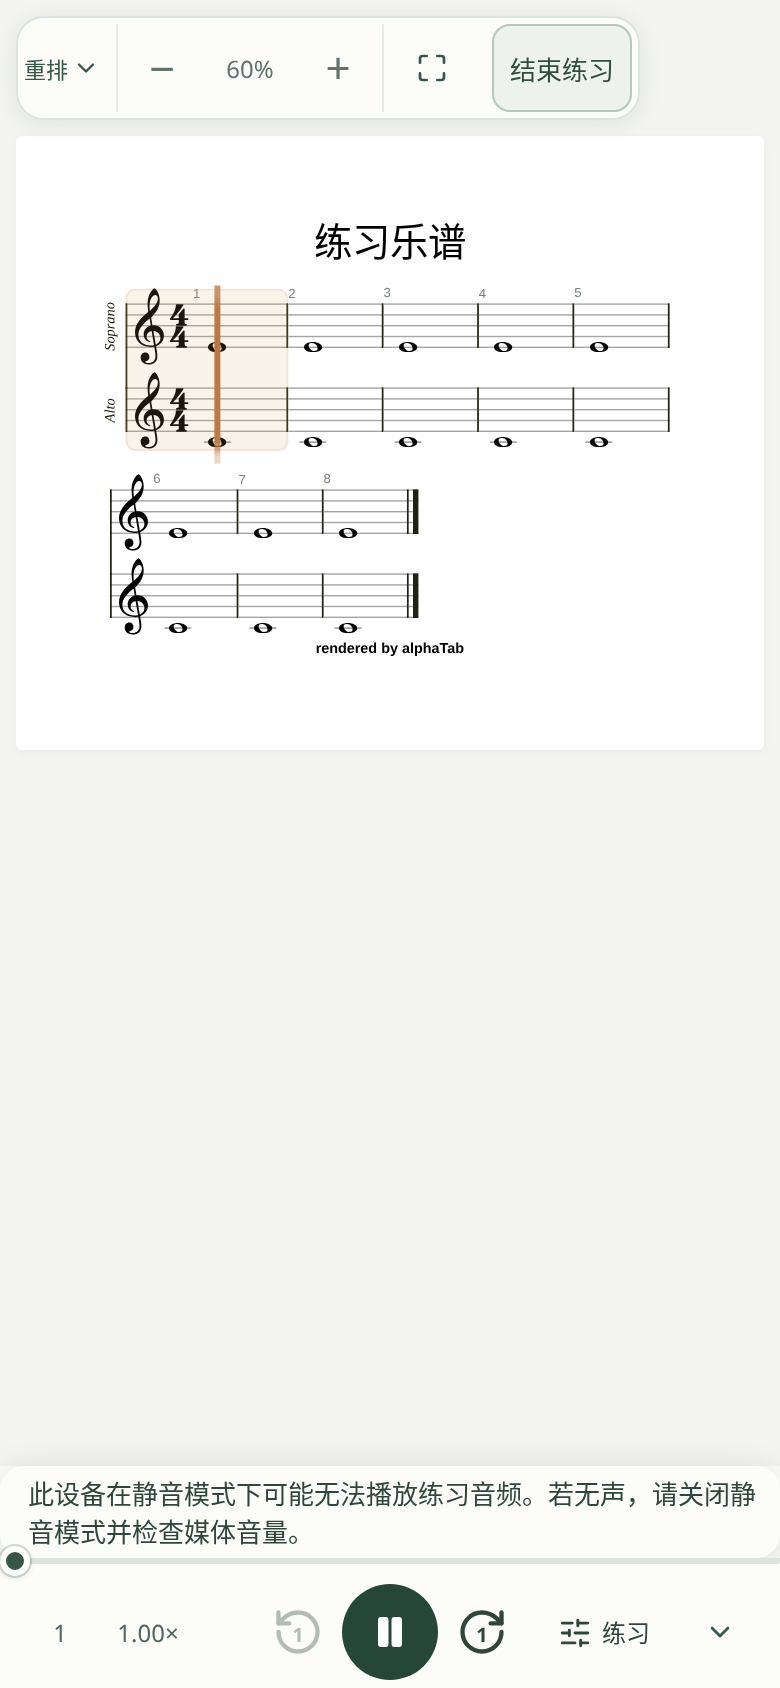
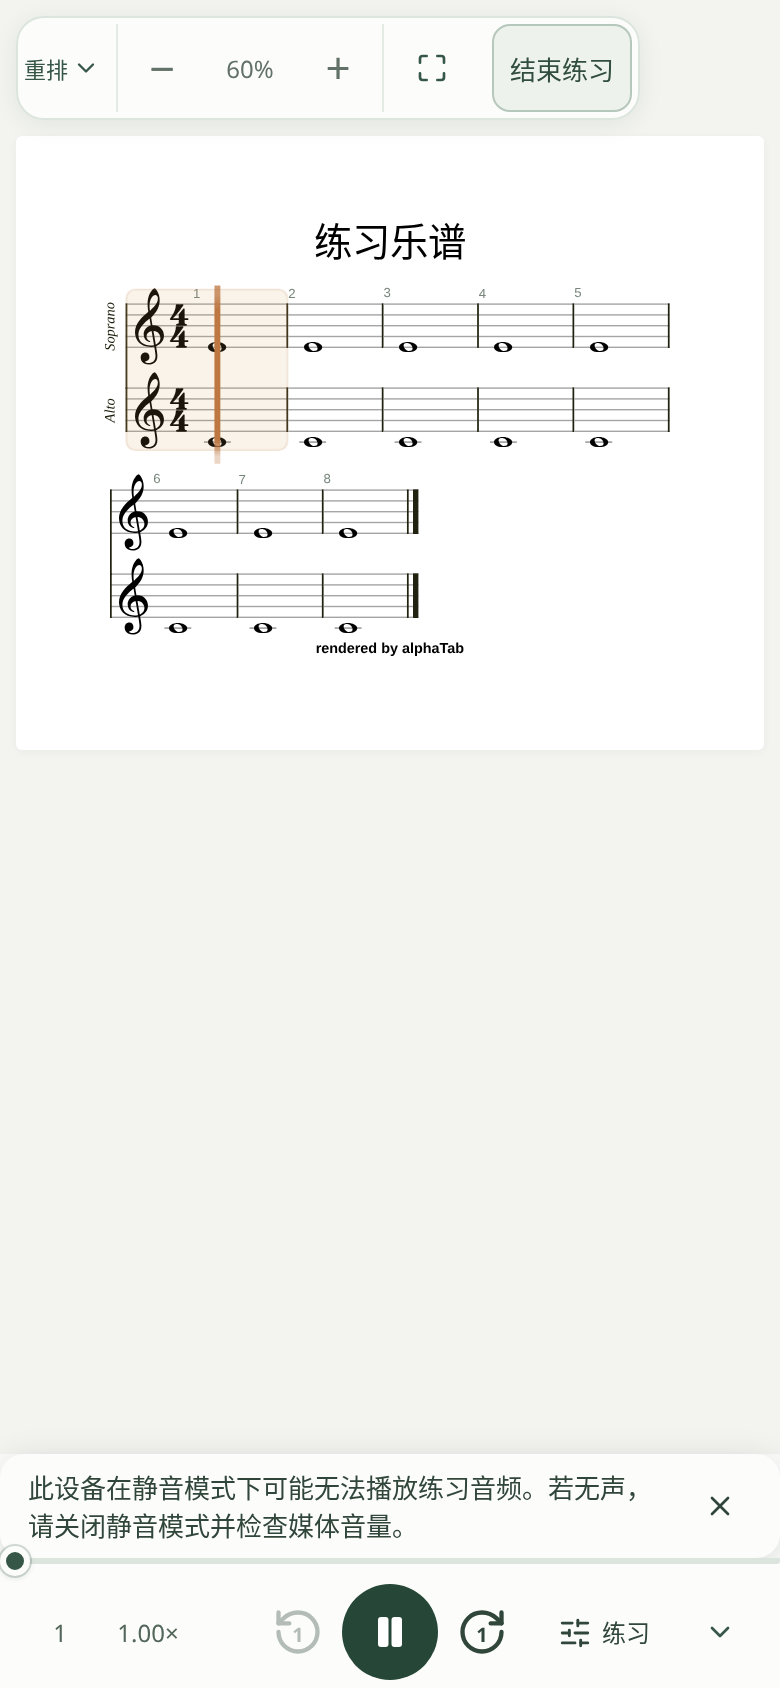
fix(player): dismiss compatibility advice after a brief reminder

Changed region(s): [[0.0308, 0.8626, 0.6769, 0.9242], [0.8308, 0.8626, 0.9846, 0.8934], [0.7077, 0.8626, 0.8, 0.8934]]

diff --git a/src/client/playback/playback-audio-hint.test.tsx b/src/client/playback/playback-audio-hint.test.tsx
@@ -1,0 +1,37 @@
+import { act, cleanup, fireEvent, render, screen } from '@testing-library/react';
+import { afterEach, beforeEach, expect, it, vi } from 'vitest';
+import type { PlayerSession } from '@same-page/player';
+import { PlaybackAudioHint } from './playback-audio-hint';
+
+const session = {} as PlayerSession;
+const message = '若无声，请关闭静音模式并检查媒体音量。';
+beforeEach(() => vi.useFakeTimers());
+afterEach(() => { cleanup(); vi.useRealTimers(); });
+it('expires after eight seconds and does not return on playback updates in the same session', () => {
+  const { rerender } = render(<PlaybackAudioHint session={session} message={message} />);
+  act(() => vi.advanceTimersByTime(7999)); expect(screen.getByText(message)).toBeVisible();
+  rerender(<PlaybackAudioHint session={session} message={message} />);
+  act(() => vi.advanceTimersByTime(1)); expect(screen.queryByText(message)).not.toBeInTheDocument();
+  rerender(<PlaybackAudioHint session={session} message={message} />);
+  expect(screen.queryByText(message)).not.toBeInTheDocument();
+});
+it('can close immediately and becomes available for a different practice session', () => {
+  const { rerender } = render(<PlaybackAudioHint session={session} message={message} />);
+  fireEvent.click(screen.getByRole('button', { name: '关闭播放声音提示' }));
+  expect(screen.queryByText(message)).not.toBeInTheDocument();
+  rerender(<PlaybackAudioHint session={{} as PlayerSession} message={message} />);
+  expect(screen.getByText(message)).toBeVisible();
+  act(() => vi.advanceTimersByTime(8000)); expect(screen.queryByText(message)).not.toBeInTheDocument();
+});
+it('starts timing when advice arrives and pauses expiry while hovered or focused', () => {
+  const { rerender } = render(<PlaybackAudioHint session={session} />);
+  act(() => vi.advanceTimersByTime(20000));
+  rerender(<PlaybackAudioHint session={session} message={message} />);
+  const hint = screen.getByLabelText('播放声音提示');
+  fireEvent.mouseEnter(hint); act(() => vi.advanceTimersByTime(10000));
+  expect(screen.getByText(message)).toBeVisible();
+  fireEvent.mouseLeave(hint); fireEvent.focus(screen.getByRole('button'));
+  act(() => vi.advanceTimersByTime(10000)); expect(screen.getByText(message)).toBeVisible();
+  fireEvent.blur(screen.getByRole('button'), { relatedTarget: document.body });
+  act(() => vi.advanceTimersByTime(8000)); expect(screen.queryByText(message)).not.toBeInTheDocument();
+});

diff --git a/src/client/playback/musicxml-practice.tsx b/src/client/playback/musicxml-practice.tsx
@@ -15,6 +15,7 @@ import type { PlaybackPreparationProgress } from './playback-preparation-notice'
 import { PracticePlayerShell } from "./practice-player-shell";
 import { PracticeDisclosure, PracticeSetting, PracticeVolume } from "./practice-setting";
 import { LoopRangeEditor } from "./loop-range-editor";
+import { PlaybackAudioHint } from './playback-audio-hint';
 const preparing: PlayerState = {
   status: "preparing",
   message: "正在准备播放…",
@@ -122,7 +123,8 @@ export function MusicXmlPractice({
         ready={ready}
         playing={state.playing || Boolean(state.countInBeats)}
         preparation={session ? state.loadingProgress : preparation && preparation.loaded !== undefined && preparation.total !== undefined ? { loaded: preparation.loaded, total: preparation.total } : undefined}
-        message={error ?? (!session && preparation ? preparation.message : state.countInBeats ? `预备：${state.countInBeat} / ${state.countInBeats}` : state.message || state.audioHint)}
+        message={error ?? (!session && preparation ? preparation.message : state.countInBeats ? `预备：${state.countInBeat} / ${state.countInBeats}` : state.message)}
+        hint={ready && <PlaybackAudioHint session={session} message={state.audioHint} />}
         failed={Boolean(error) || state.status === "error"}
         timeline={{
           value: state.measure,
@@ -293,6 +295,7 @@ export function MusicXmlPractice({
           {view === "pdf" && <p className="practice-hint">切换到重排谱面后可设置首调数字。</p>}
         </div>
         {offlineStatus && <p className="practice-hint" role="status">{offlineStatus === 'ready' ? '此练习谱可离线打开与播放。' : offlineStatus === 'preparing' ? '正在准备离线播放…' : <>离线准备未完成。<Button className="practice-inline-action" onPress={retryOffline}>重试离线准备</Button></>}</p>}
+        {state.audioHint && <p className="practice-hint">{state.audioHint}</p>}
         <p className="practice-hint">MusicXML 合成播放，不演唱歌词；原 PDF 需手动翻页。</p>
       </PracticePlayerShell>
     </>

diff --git a/src/client/playback/playback-audio-hint.tsx b/src/client/playback/playback-audio-hint.tsx
@@ -1,0 +1,26 @@
+import { useEffect, useState } from 'react';
+import { Button } from 'react-aria-components';
+import { X } from 'lucide-react';
+import type { PlayerSession } from '@same-page/player';
+
+/** A compatibility hint gets one brief appearance per practice session. */
+export function PlaybackAudioHint({ session, message }: { session: PlayerSession | null; message?: string }) {
+  const [dismissedFor, setDismissedFor] = useState<PlayerSession | null>(null);
+  const [hoveredFor, setHoveredFor] = useState<PlayerSession | null>(null);
+  const [focusedFor, setFocusedFor] = useState<PlayerSession | null>(null);
+  const hovered = session !== null && hoveredFor === session;
+  const focused = session !== null && focusedFor === session;
+  const visible = Boolean(session && message && dismissedFor !== session);
+  useEffect(() => {
+    if (!visible || hovered || focused) return;
+    const timer = setTimeout(() => setDismissedFor(session), 8000);
+    return () => clearTimeout(timer);
+  }, [visible, hovered, focused, session]);
+  if (!visible) return null;
+  return <div className="practice-notice" aria-label="播放声音提示"
+    onMouseEnter={() => setHoveredFor(session)} onMouseLeave={() => setHoveredFor(null)}
+    onFocusCapture={() => setFocusedFor(session)} onBlurCapture={event => { if (!event.currentTarget.contains(event.relatedTarget)) setFocusedFor(null); }}>
+    <span role="status">{message}</span>
+    <Button aria-label="关闭播放声音提示" onPress={() => setDismissedFor(session)}><X size={16} aria-hidden="true" /></Button>
+  </div>;
+}

diff --git a/src/client/playback/practice-player-shell.tsx b/src/client/playback/practice-player-shell.tsx
@@ -17,6 +17,7 @@ import { usePracticePopoverHeight } from './use-practice-popover-height';
 type Props = {
   source?: PlaybackSource; embedded?: boolean; notationZoom?: NotationZoomProps; ready: boolean; playing: boolean; message?: string; failed?: boolean;
   preparation?: { loaded: number; total: number };
+  hint?: ReactNode;
   loopPreviewing?: boolean; position: string; loopStatus?: string; timeline: Timeline; tempo?: { bpm: number; unit: number }; speed?: number; setSpeed?(value: number): void; previousDisabled: boolean; nextDisabled: boolean;
   play(): void; previous(): void; next(): void; retry(): void; children: ReactNode;
 };
@@ -91,6 +92,7 @@ export function PracticePlayerShell(props: Props) {
       {!props.ready && !props.failed && props.message
         ? <PlaybackPreparationNotice key={props.message} message={props.message} {...props.preparation} retry={props.retry} />
         : props.message && <div className="practice-notice" role="status"><span>{props.message}</span>{props.failed && <Button onPress={props.retry}>重试</Button>}</div>}
+      {props.hint}
       <section className="practice-bar" aria-label="乐谱练习" data-testid="musicxml-player">
         <div id="practice-expanded-controls" className="practice-expanded-controls" hidden={bottomCollapsed}><PlaybackTimeline timeline={props.timeline} /></div>
 

diff --git a/docs/verification/persistent-notice-review.md b/docs/verification/persistent-notice-review.md
@@ -1,0 +1,33 @@
+# 常驻提示静态审查（2026-11-13）
+
+审查播放器、阅读器、更新提醒、邀请分享、关于、问题反馈、本机存储及回收站的提示状态、
+清除条件和展示位置。以下是代码确认的问题，不等同于每个流程均已真机走查。
+
+## 发现与处置
+
+| 优先级 | 提示及位置 | 当前生命周期 | 判断和建议 |
+| --- | --- | --- | --- |
+| 高，已修 | 旧设备音频兼容提示，播放栏上方 | `audioHint` 留在 session，原先一直交给常驻 message 区，无关闭入口 | 本次改为每次练习只展示一次，8 秒收起、可立即关闭、阅读时暂缓；说明留在练习设置。 |
+| 高，待修 | “显示恢复未完成，已保留原谱面”，阅读器底部 | `reader-session.ts` 发布 `displayMessage`，仅成功替换 document 时清空；`reader-page.tsx` 直接展示，CSS `pointer-events: none`，无关闭入口 | 已恢复可读原谱面后，这是恢复结果反馈。建议短暂显示并提供可关闭入口；真正的 PDF 加载失败仍需保留重试。 |
+| 中，待修 | “已进入专注模式，系统状态栏由系统保留”及“全屏未能开启，已使用专注模式”，看谱顶部 | `use-practice-focus.ts` 无自动收起，仅手动关闭或退出模式清空；`practice-player-shell.tsx` 提供关闭按钮 | 兼容说明不应一直覆盖谱面，建议首次短暂展示，同次练习不重复。“无法退出全屏”的实际失败反馈应单独保留。 |
+| 低，待修 | 邀请码/邀请链接“已复制”、邀请卡生成成功，邀请分享面板 | `invite-sharing.tsx` 共用 message，下一次动作、加载或面板卸载才清空 | 成功确认建议 3–5 秒收起，不能把读取失败、轮换结果未确认等消息一并定时清除。 |
+| 低，待修 | “版本信息已复制”“已复制反馈编号”，关于及问题反馈 | `about-page.tsx` / `diagnostic-report-form.tsx` message 无计时，下一动作或卸载清除 | 复制成功应短暂反馈；反馈编号及发送结果本身可保留，便于查阅，不应整体隐藏。 |
+| 低，待修 | 清理成功、文件/PDF 恢复成功，本机存储及回收站 | `local-storage-page.tsx`、`trash-contents.tsx`、`replaced-pdf-trash.tsx` 成功文案与失败共用 message，无计时 | 成功确认可定时收起；部分失败、结果未确认、同名冲突及恢复后刷新失败必须保留操作入口。 |
+
+本次只修正 #645 新增的音频提示；其余条目是待处理审查发现，未在代码中一并修改。
+这样避免在音频修复里改变认证、数据恢复或存储失败的生命周期。
+
+## 已有合理行为
+
+- `updates/update-notice.tsx`：8 秒后收起、可关闭，悬停/聚焦暂停，单个待更新 worker 只提醒一次。
+- `reader/use-reader-hint.ts`：普通阅读引导默认 5 秒收起；手动打开的帮助可一直保留直到主动关闭。
+- 加载/下载进度、真实资源不可用、网络/身份状态、未保存/同步冲突及结果未确认：
+  在条件未解除前保留，不能按“所有提示统一几秒消失”处理。
+- 仅在用户打开的设置/帮助面板内展示的静态说明（离线可用、合成不唱歌词、首调设置限制等），
+  不属于常驻遮挡谱面的浮动提示。
+
+## 后续实现约束
+
+先把成功/说明、正在处理、需操作的失败区分成明确状态，再决定是否计时；不要用文案字符串
+匹配来统一清空 message。短暂提示要可手动关闭、阅读时暂缓，重复播放或状态刷新不应重新计时弹出。
+审查范围内未修改的待修项不计入本次验证通过范围。
